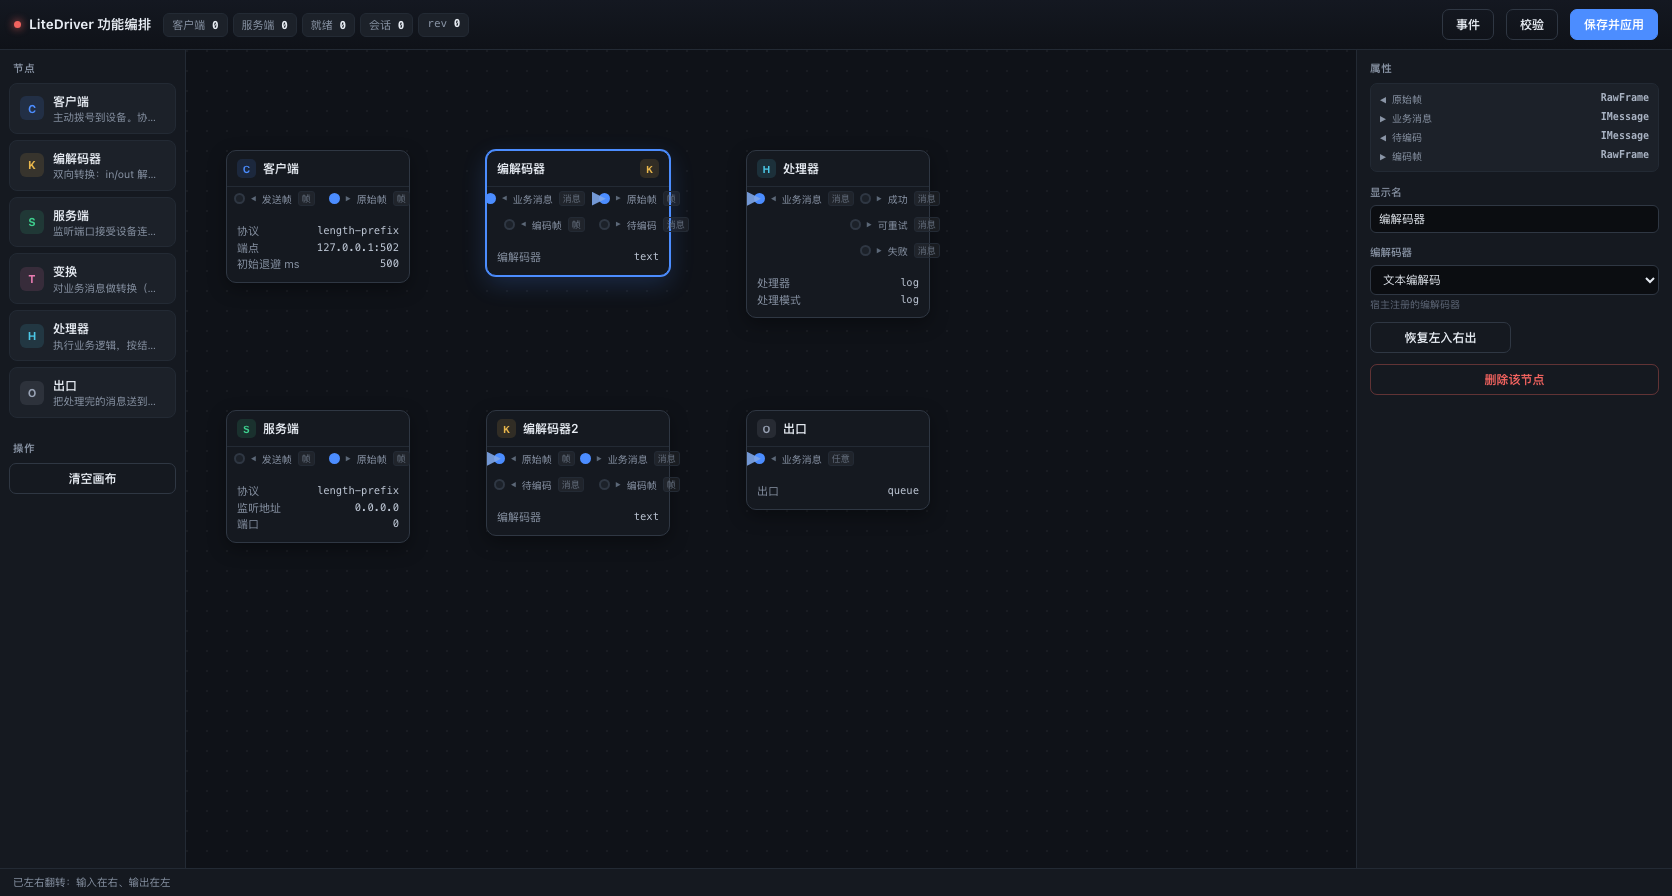
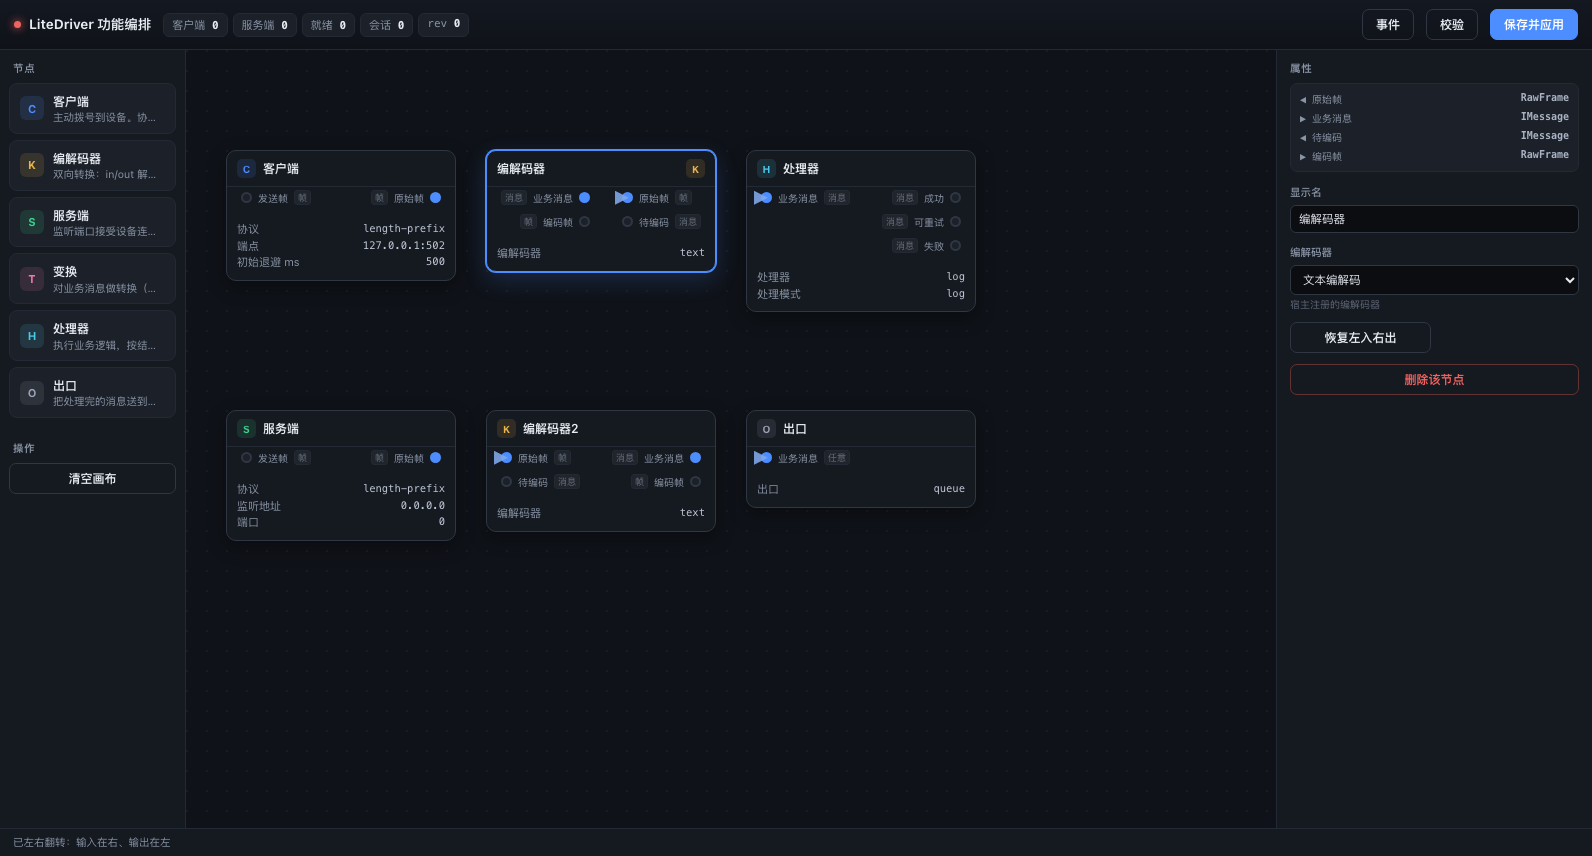
fix(orchestration): 修复端口文字截断与连线遮挡，翻转改为两列换边
用户问这套界面是否适合作为交付物。查看截图后确认不适合，实测定位三处缺陷。

1) 端口文字被截断（6 处）
   节点宽 184px 装不下两列端口（各需 95~105px），"待编码""业务消息"
   等被截成省略号。节点加宽到 230px 并放开列宽限制。

2) 连线横穿节点卡片
   上一轮为修复"删不掉连线"把 svg 抬到节点之上（z-index:3），
   结果线条盖住卡片。改为双层结构：
   - svg.wires 在节点之下，只画可见线
   - svg.wirehits 在最上层，只放透明粗描边作点击热区（12px）
   两者共用同一批几何，视觉与命中互不干扰。

3) 修复 (2) 引入的回归：删线再次失效
   事件流追踪发现 pointerdown 命中 path 后，wrap 的空白点击处理调用了
   renderNodes()，销毁了正在被点击的元素，导致后续 mousedown 目标错位、
   浏览器不再合成 click。修复：空白点击处理排除 #wirehits。

4) 翻转复位
   纵向堆叠布局无法表达"左右"，且曾出现端口顺序错乱、文字与圆点分离。
   恢复横向两列，翻转实现为两列整体换边（输入列到右侧、输出列到左侧）。

另外删除两处遗留的 .port.out{flex-direction:row-reverse}，它把输出端口
的连接点推到左侧，与新的对齐规则冲突（表现为 dotFromLeft 恒为 15）。

实测：端口截断 0；连线不覆盖节点 0；节点不重叠 0；
真实鼠标点击删线 4→3；节点可拖动；翻转后 inDot 15→136、outDot 204→93；
像素采样确认连线可见。109 项测试通过、零警告、端到端全过。

diff --git a/src/LiteDriver.Orchestration/wwwroot/index.html b/src/LiteDriver.Orchestration/wwwroot/index.html
@@ -62,14 +62,21 @@
     var(--canvas)}
   /* 不能用 none：父级 none 会阻断子 path 的 pointer-events:stroke 命中，
      导致连线点不中、删不掉。改为 auto，仅让带 data-edge 的厚热区可命中。 */
-  /* svg 必须位于 .canvas 之上才能收到点击（否则被 canvas 遮挡，连线永远删不掉）。
-     整体 pointer-events:none 让节点与端口照常可操作，仅 data-edge 热区开启 stroke 命中。 */
-  svg.wires{position:absolute;inset:0;width:100%;height:100%;pointer-events:none;z-index:3}
-  svg.wires path[data-edge]{pointer-events:stroke}
-  .canvas{position:absolute;inset:0}
+  /* 连线必须画在节点之下：svg 置于 DOM 中 .canvas 之前，且不加 z-index。
+     若把 svg 抬到节点之上，线条会横穿卡片，视觉上一团乱。
+     命中问题改用「canvas 本身不拦截、热区单独可点」解决，见 .canvas 与 path[data-edge]。 */
+  /* 可见连线在节点之下；命中用独立的上层热区层，两者不互相遮挡。 */
+  svg.wires{position:absolute;inset:0;width:100%;height:100%;pointer-events:none;z-index:1}
+  /* 热区在最上层，才能点到被节点覆盖的线段；宽度收窄到 12 以免大面积遮挡节点拖动。 */
+  svg.wirehits{position:absolute;inset:0;width:100%;height:100%;pointer-events:none;z-index:6}
+  svg.wirehits path{pointer-events:stroke}
+  /* canvas 只承载节点，本身不吃事件；空白拖动由 wrap 兜底。
+     这样位于其下的 svg 热区仍能被点到。 */
+  .canvas{position:absolute;inset:0;pointer-events:none}
+  .canvas .node{pointer-events:auto}
 
   /* 节点 */
-  .node{position:absolute;width:184px;border-radius:10px;background:var(--panel);
+  .node{position:absolute;width:230px;border-radius:10px;background:var(--panel);
     border:1px solid var(--line-2);box-shadow:0 6px 18px rgba(0,0,0,.34);cursor:grab;
     user-select:none;transition:box-shadow .13s,border-color .13s}
   .node:hover{border-color:#48536a}
@@ -85,15 +92,21 @@
   .node-body .kv{display:flex;justify-content:space-between;gap:6px}
   .node-body .kv span:last-child{color:#bdc6d4;font-family:var(--mono);font-size:10.5px;
     overflow:hidden;text-overflow:ellipsis;white-space:nowrap}
-  .ports{display:flex;justify-content:space-between;padding:0 0 6px;min-height:14px}
+  /* 横向两列：输入列靠左、输出列靠右。翻转时两列整体换边。
+     列内单个端口允许文字换行，避免截断。 */
+  .ports{display:flex;justify-content:space-between;gap:10px;padding:0 8px 6px;align-items:flex-start}
+  .port-col{display:flex;flex-direction:column;gap:2px;min-width:0;flex:0 1 auto}
   .port-col{display:flex;flex-direction:column;gap:3px}
   .port{display:flex;align-items:center;gap:6px;font:10px var(--mono);color:#8b96a8;
-    cursor:crosshair;padding:4px 7px;border-radius:5px;transition:.12s;
-    min-height:20px;-webkit-user-select:none;user-select:none}
-  .port .plabel{white-space:nowrap}
+    cursor:crosshair;padding:3px 6px;border-radius:5px;transition:.12s;
+    min-height:19px;-webkit-user-select:none;user-select:none}
+  /* 输入靠左，输出靠右 */
+  /* 输入：圆点在最左（flex-start）；输出：圆点在最右（flex-end）。
+     输出 DOM 顺序是 类型→标签→方向→圆点，内容靠右即圆点贴右边框。 */
+  .port.in{justify-content:flex-start}
+  .port.out{justify-content:flex-end}
+  .port .plabel{white-space:nowrap;overflow:hidden;text-overflow:ellipsis;min-width:0}
   .port .pdir{font-size:8px;color:#5c6878;flex:0 0 auto}
-  .node.flipped .port.in .pdir{transform:rotate(180deg)}
-  .node.flipped .port.out .pdir{transform:rotate(180deg)}
   .port:hover{background:rgba(76,141,255,.14);color:var(--accent)}
   /* 注意：翻转靠交换 DOM 列顺序实现（见 renderNodes），
      此处不能再加 row-reverse，否则两者抵消，位置纹丝不动。 */
@@ -101,11 +114,11 @@
     border:1px solid var(--line);border-radius:3px;padding:0 3px;flex:0 0 auto}
   .port:hover .ptype{color:#9db4d0;border-color:var(--line-2)}
   .node.flipped .node-head{flex-direction:row-reverse}
+
   .port.in{cursor:default}
   .port.in:hover{background:rgba(255,255,255,.05);color:#8b96a8}
   .port .pdot{width:11px;height:11px;border-radius:50%;background:var(--panel-2);
     border:2px solid var(--line-2);flex:0 0 11px;transition:.12s}
-  .port.out{flex-direction:row-reverse;text-align:right}
   .port.linked .pdot{background:var(--accent);border-color:var(--accent)}
   .port.compat .pdot{background:var(--ok);border-color:var(--ok);box-shadow:0 0 6px var(--ok)}
   .port.incompat{opacity:.32;cursor:not-allowed}
@@ -187,8 +200,10 @@
   </aside>
 
   <div class="canvas-wrap" id="canvasWrap">
-    <div class="canvas" id="canvas"></div>
     <svg class="wires" id="wires"></svg>
+    <div class="canvas" id="canvas"></div>
+    <!-- 热区层：位于节点之上，只包含可点击的粗描边（透明），负责删线命中 -->
+    <svg class="wirehits" id="wirehits"></svg>
     <div class="linkhint" id="linkHint">松开以连接到高亮的输入端口 · Esc 取消</div>
     <div class="drawer" id="drawer">
       <h4><span>事件流</span><span id="drawerClose" style="cursor:pointer">✕</span></h4>
@@ -225,7 +240,7 @@ const state = {
 };
 
 const $ = id => document.getElementById(id);
-const canvas = $('canvas'), wires = $('wires'), wrap = $('canvasWrap');
+const canvas = $('canvas'), wires = $('wires'), wirehits = $('wirehits'), wrap = $('canvasWrap');
 
 const TYPE_COLORS = {
   protocol:'#8b6ce8', client:'#4c8dff', server:'#3ecf8e',
@@ -311,17 +326,15 @@ function renderNodes(){
     const inCol = `<div class="port-col in-col">${ins.map(p => `
         <div class="port in" data-node="${n.id}" data-port="${esc(p.id)}" data-dir="in"
              data-type="${esc(p.dataType)}" title="输入端口（连线终点，不可起拖）· ${esc(p.label)} · ${esc(p.dataType)}${p.required?' · 必连':''}">
-          <span class="pdot"></span><span class="pdir">◀</span><span class="plabel">${esc(p.label)}</span>
+          <span class="pdot"></span><span class="plabel">${esc(p.label)}</span>
           <span class="ptype">${esc(shortType(p.dataType))}</span></div>`).join('')}</div>`;
     const outCol = `<div class="port-col out-col">${outs.map(p => `
         <div class="port out" data-node="${n.id}" data-port="${esc(p.id)}" data-dir="out"
              data-type="${esc(p.dataType)}" title="输出端口（从这里拖出连线）· ${esc(p.label)} · ${esc(p.dataType)}">
           <span class="ptype">${esc(shortType(p.dataType))}</span>
-          <span class="plabel">${esc(p.label)}</span><span class="pdir">▶</span><span class="pdot"></span></div>`).join('')}</div>`;
-    // 翻转：输入列与输出列互换位置
-    const portHtml = n.flipped
-      ? `<div class="ports flipped">${outCol}${inCol}</div>`
-      : `<div class="ports">${inCol}${outCol}</div>`;
+          <span class="plabel">${esc(p.label)}</span><span class="pdot"></span></div>`).join('')}</div>`;
+    // 翻转：两列整体换边 —— 输入列到右侧、输出列到左侧
+    const portHtml = `<div class="ports">${n.flipped ? outCol + inCol : inCol + outCol}</div>`;
     return `<div class="node${sel}${err}${n.flipped?' flipped':''}" data-id="${n.id}" data-type="${esc(n.nodeType)}"
                  style="left:${n.x}px;top:${n.y}px">
       <div class="node-head">
@@ -371,10 +384,20 @@ function drawWires(){
     const d = `M ${a.x} ${a.y} C ${a.x+dx} ${a.y}, ${b.x-dx} ${b.y}, ${b.x} ${b.y}`;
     html += `<path d="${d}" stroke="url(#g)" stroke-width="2" fill="none" opacity=".9"
               marker-end="url(#arrow)" style="pointer-events:none"/>`;
-    // 删除热区加宽到 24，并在 hover 时高亮，避免"点不中"
-    html += `<path d="${d}" stroke="transparent" stroke-width="24" fill="none"
-              style="pointer-events:stroke;cursor:pointer" data-edge="${esc(e.id)}"/>`;
+    // 热区单独画到上层 svg（见 drawWires 末尾），此处不再输出到可见层
   }
+  // ---- 热区层：只含透明粗描边，供点击删除 ----
+  let hits = '';
+  for(const e of state.edges){
+    const a = portCenter(e.from, e.fromPort), b = portCenter(e.to, e.toPort);
+    if(!a || !b) continue;
+    const dx = Math.max(46, Math.abs(b.x-a.x)*0.5);
+    const d = `M ${a.x} ${a.y} C ${a.x+dx} ${a.y}, ${b.x-dx} ${b.y}, ${b.x} ${b.y}`;
+    hits += `<path d="${d}" stroke="transparent" stroke-width="12" fill="none"
+               style="cursor:pointer" data-edge="${esc(e.id)}"/>`;
+  }
+  wirehits.innerHTML = hits;
+
   if(state.linking){
     const a = portCenter(state.linking.from, state.linking.fromPort);
     if(a){
@@ -387,6 +410,22 @@ function drawWires(){
   }
   wires.innerHTML = html;
 }
+
+wrap.addEventListener('pointerdown', ev => {
+  // 点到空白（非节点、非端口、非抽屉、非连线热区）：取消选择。
+  // 必须排除连线热区：否则这里 renderNodes() 会销毁正在被点击的 path，
+  // 导致后续 mousedown 目标错位、浏览器不再合成 click，表现为"删不掉连线"。
+  if(ev.target.closest('.node') || ev.target.closest('.port') ||
+     ev.target.closest('.drawer') || ev.target.closest('#wirehits')) return;
+  if(state.linking){
+    state.linking = null;
+    clearHighlight();
+    drawWires();
+    return;
+  }
+  state.selected = null;
+  renderNodes(); renderProps();
+});
 
 wrap.addEventListener('dragover', ev => { ev.preventDefault(); ev.dataTransfer.dropEffect = 'copy'; });
 wrap.addEventListener('drop', ev => {
@@ -566,12 +605,12 @@ function removeEdge(id){
   }
 }
 
-wires.addEventListener('click', ev => {
+wirehits.addEventListener('click', ev => {
   const id = ev.target.dataset && ev.target.dataset.edge;
   if(id) removeEdge(id);
 });
 
-wires.addEventListener('contextmenu', ev => {
+wirehits.addEventListener('contextmenu', ev => {
   const id = ev.target.dataset && ev.target.dataset.edge;
   if(!id) return;
   ev.preventDefault();
@@ -580,7 +619,7 @@ wires.addEventListener('contextmenu', ev => {
 
 // hover 连线时高亮，提示可点击删除
 let hoverEdge = null;
-wires.addEventListener('pointermove', ev => {
+wirehits.addEventListener('pointermove', ev => {
   const id = ev.target.dataset && ev.target.dataset.edge;
   if(id === hoverEdge) return;
   hoverEdge = id;
